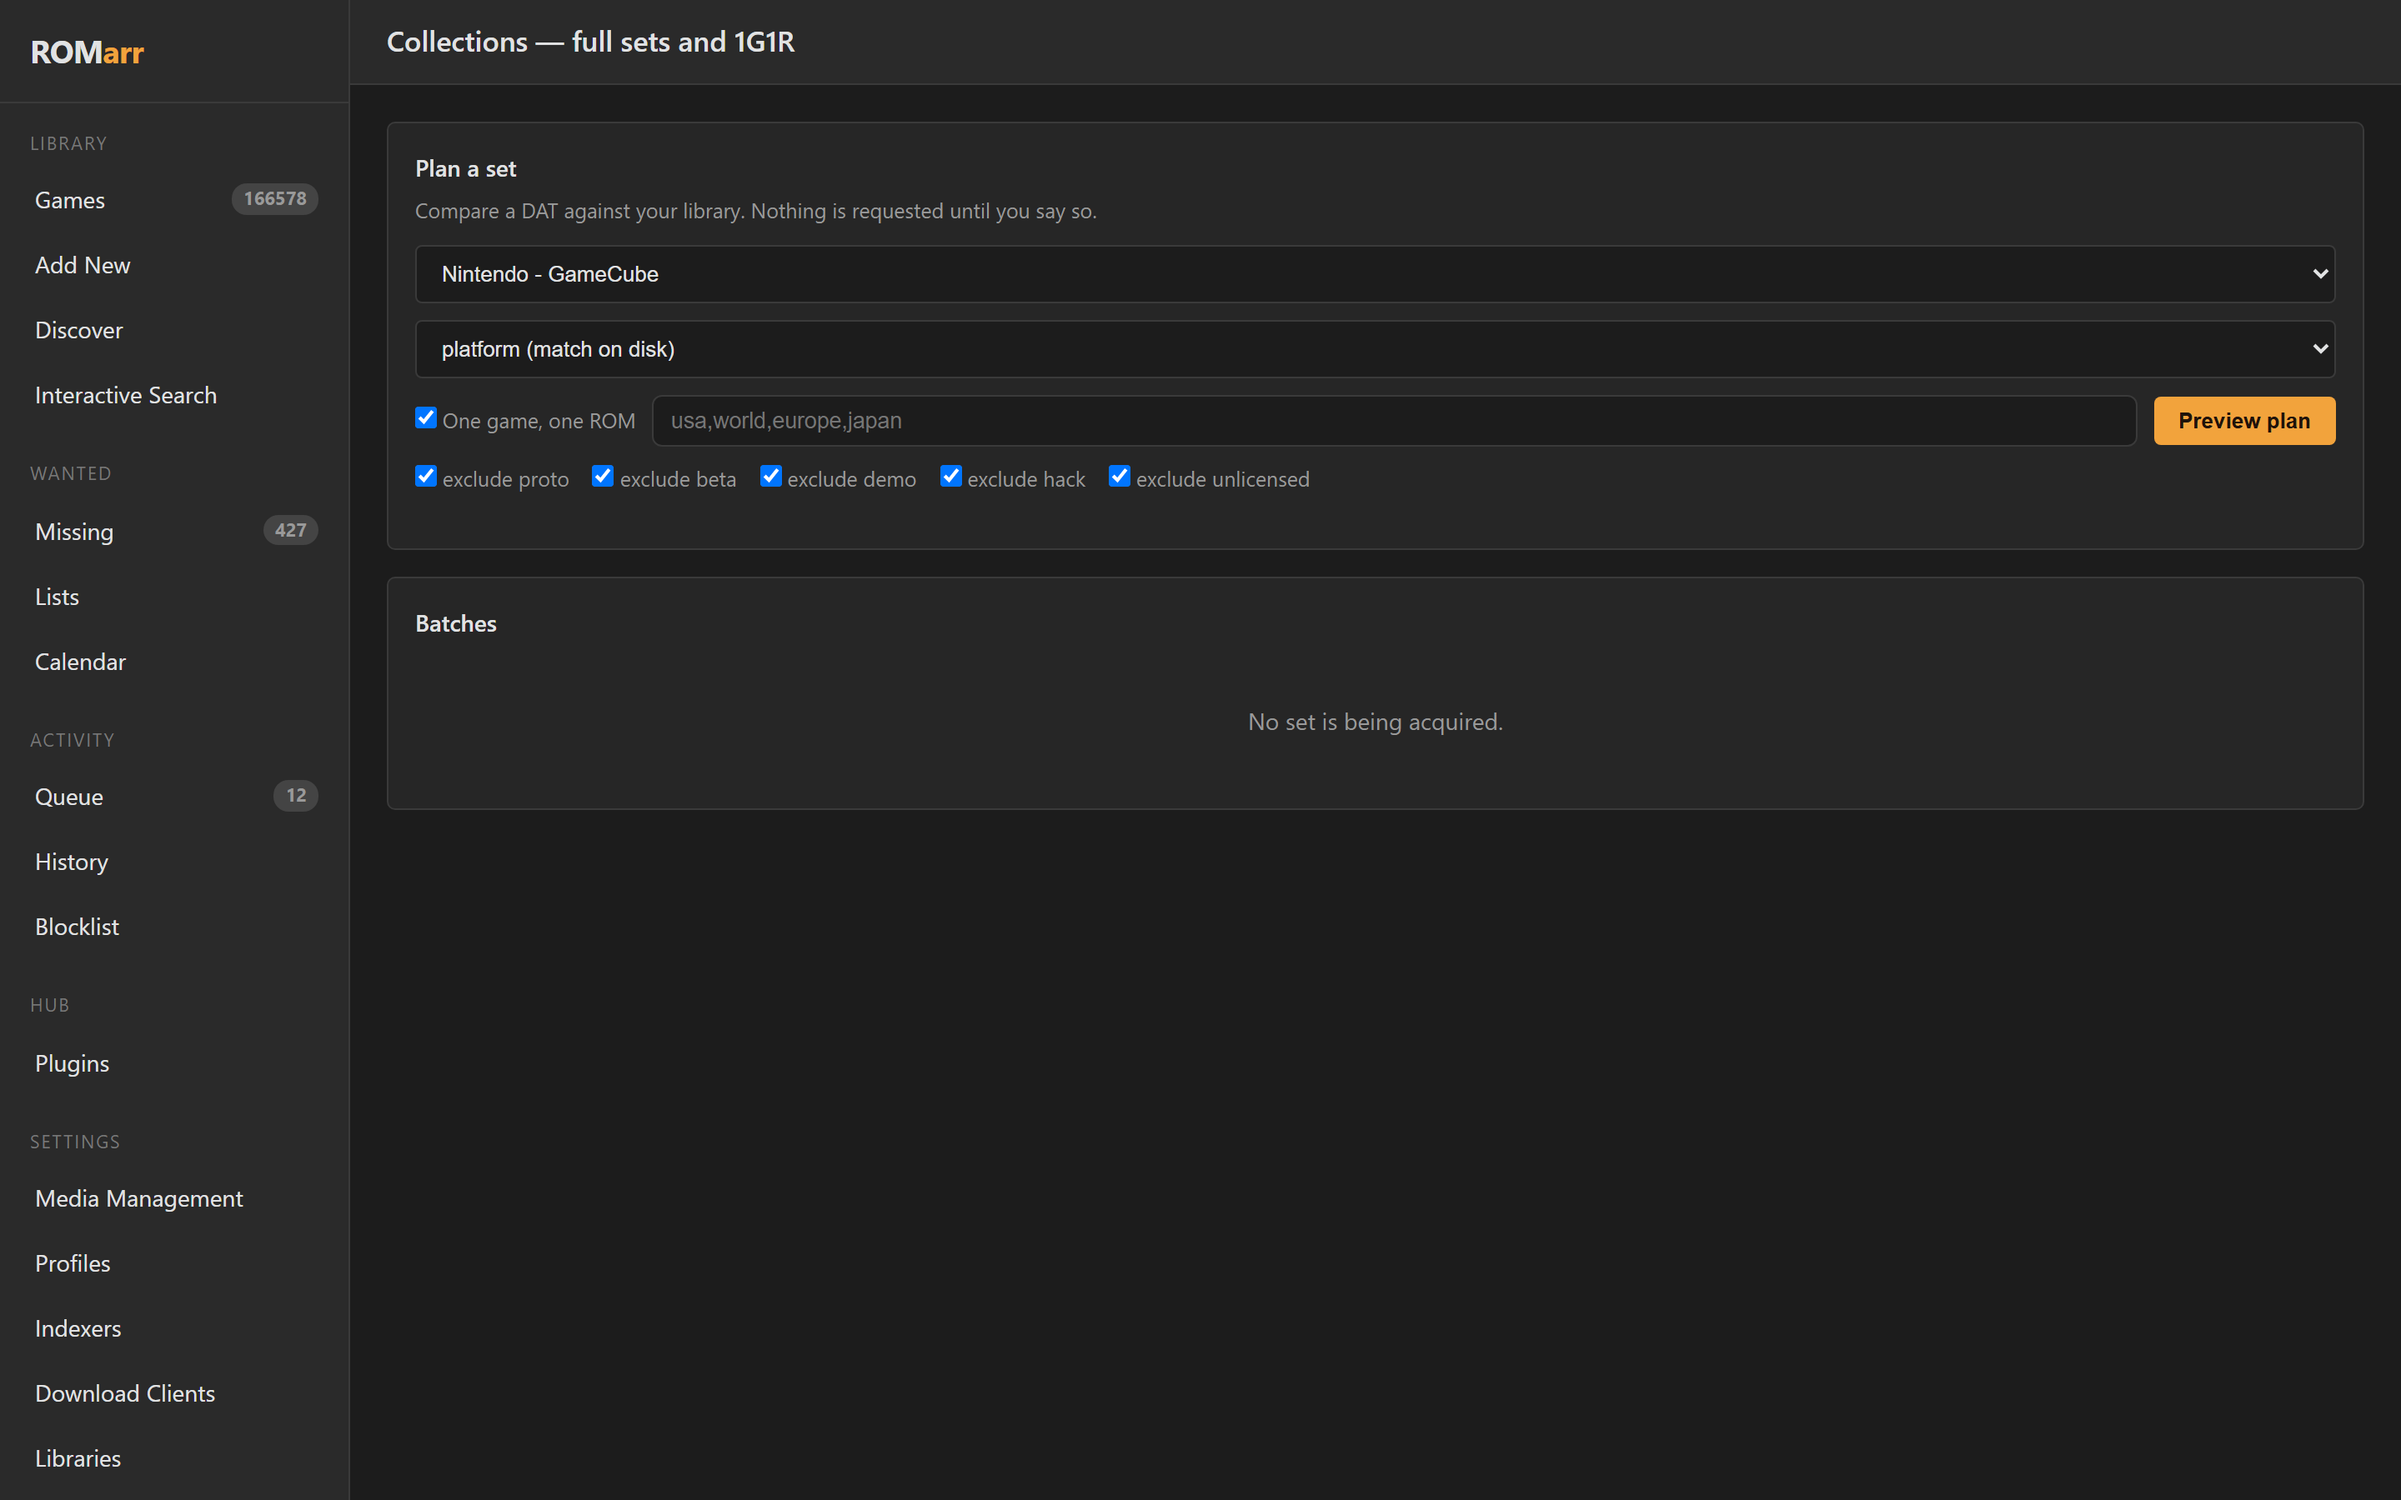
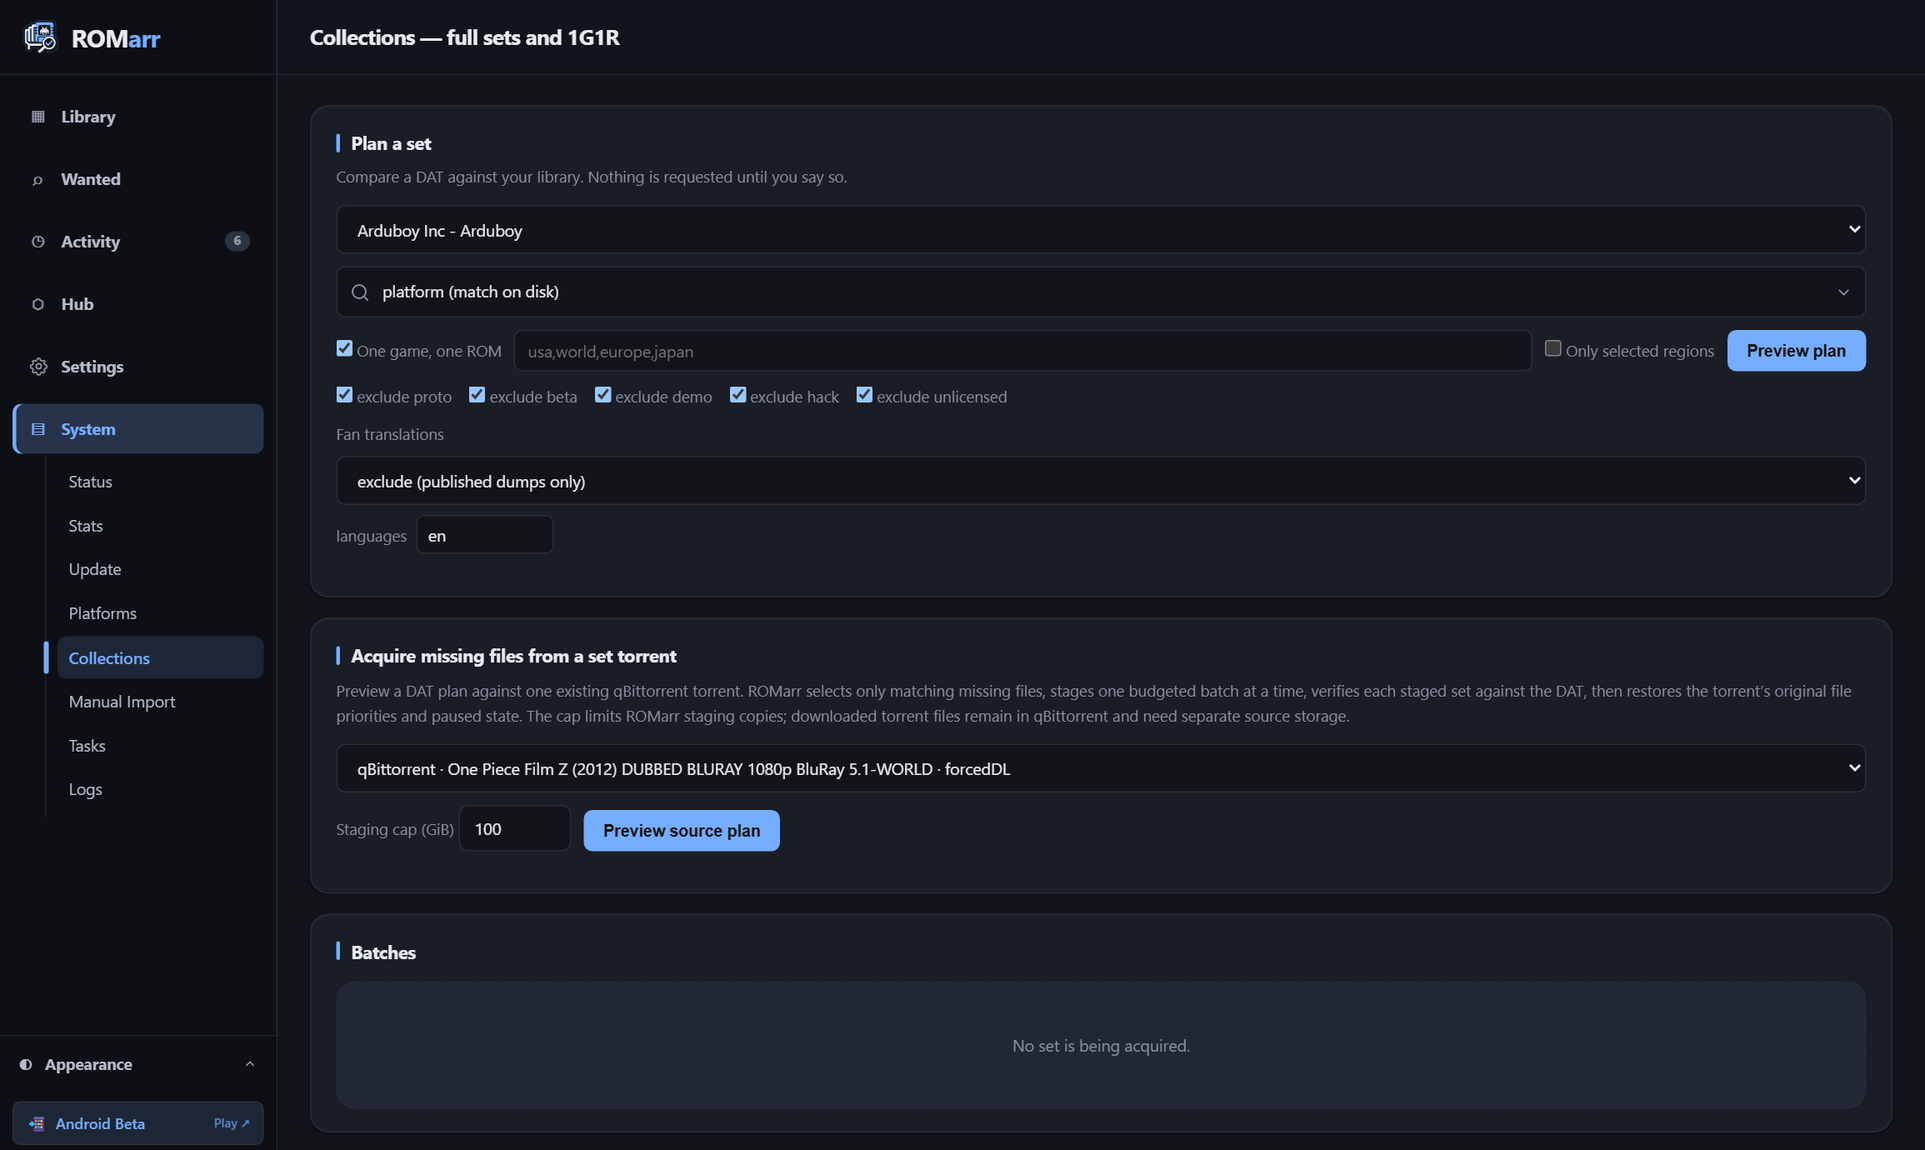
docs: refresh v1.10.0 platform screenshots and editions gallery

diff --git a/README.md b/README.md
@@ -58,6 +58,62 @@ You can use a plain **folder** as your library. RomM, Gaseous, Retrom and other 
 
 Imports can be checked against DAT checksums. The result is **verified**, **bad dump**, or **unknown**. Without a matching DAT, a file is unknown; that does not mean it is damaged. **Rename on import** can use a verified single-file ROM's DAT name while keeping its source extension; unknown filenames are retained and existing files are not overwritten. For files already in your library, use the [rename preview and rollback guide](docs/EXISTING-LIBRARY-RENAME.md). Review each proposed change; multi-file disc sets and ambiguous matches are skipped.
 
+## Editions & Screenshots
+
+ROMarr shares one unified interface across browser deployments, Windows standalone, Android phones/handhelds, and [`ROMarr.app`](https://romarr.app). All captures below are taken from a live 76,064-game library running ROMarr v1.10.0.
+
+### Platform Editions & Authentication
+
+| Edition | Highlights | Preview |
+|---|---|---|
+| **Browser Web UI** | 76,064 games cached across 73 platforms with cover art, fast filters, and status badges | ![ROMarr Browser Edition — 76,064 games across 73 platforms](docs/img/editions/romarr-browser-edition.png) |
+| **Windows Desktop App** | Portable x64 WebView2 window, tray host, Cartridge player menu, and 1,220-entry Emulator Hub | ![ROMarr Windows Desktop Edition with Cartridge menu and Emulator Hub](docs/img/editions/romarr-windows-edition.png) |
+| **Android App (Mobile & Handhelds)** | Bundled Chaquopy server plus HTTPS remote profile switching over mobile touch UI | ![ROMarr Android App connected to a remote server](docs/img/editions/romarr-android-edition.png) |
+| **Android Slide-Out Drawer** | Touch navigation drawer with expandable hub sections and integrated Color Changer | ![ROMarr Android navigation drawer and theme controls](docs/img/editions/romarr-android-drawer.png) |
+| **ROMarr.app Website** | Project landing page synced with real scored search results and live accent swatches | ![ROMarr.app landing page showcase](docs/img/editions/romarr-website-edition.png) |
+| **Sign-In & OIDC SSO** | Built-in password/API-key authentication alongside external SSO providers such as Authentik | ![ROMarr sign-in and OIDC SSO screen](docs/img/editions/romarr-signin-sso.png) |
+
+### Vector SVG Branding & Live Color Changer
+
+The separated vector icon ([`romarr-icon.svg`](docs/img/brand/romarr-icon.svg)) and stacked lockup dynamically bind to `var(--accent)` so the logo, wordmark, active navigation, and charts shift cleanly together in real time:
+
+| Steel Blue (`#75adff`) | Warm Amber (`#f2a33c`) | Emerald Green (`#3ecf6d`) | Royal Violet (`#c084fc`) |
+|---|---|---|---|
+| ![Steel Blue accent theme](docs/img/editions/theme-blue.png) | ![Warm Amber accent theme](docs/img/editions/theme-amber.png) | ![Emerald Green accent theme](docs/img/editions/theme-emerald.png) | ![Royal Violet accent theme](docs/img/editions/theme-violet.png) |
+
+### Library Discovery, Confined Plugins & Device Sync
+
+| Feature | Preview |
+|---|---|
+| **Library Overview** — 76,056 files on disk, platform pills, genre/region/decade filters, and cover grid | ![ROMarr library view across 73 platforms](docs/img/library.png) |
+| **Discover Shelf** — 42,210 metadata-matched games from your library with top-rated, hidden-gem, and franchise filters | ![ROMarr Discover shelf with 42,210 games](docs/img/discover.png) |
+| **ROM Hub Plugins** — 29 confined subprocess sources (`archive-org`, `vimm-net`, `minerva-archive`, `theromdepot`, and more) | ![ROM Hub showing 29 enabled plugins](docs/img/hub-plugins.png) |
+| **Device Fleet & 1G1R Planner** — Non-destructive Igir sync plans and frontend exports for ES-DE, RetroPie, Batocera, Steam Deck, and Argosy | ![Device Fleet non-destructive 1G1R sync planner](docs/img/device-fleet.png) |
+
+<details>
+<summary>Tour more views: MCP AI Connector, Device Cards, Emulator Hub, Collections, Friends & System Telemetry</summary>
+
+| View | Preview |
+|---|---|
+| **Device Profiles & Handheld Cards** | ![Device Fleet cards for ES-DE, RetroPie, Batocera, Steam Deck, and Android handhelds](docs/img/portal-fleet.png) |
+| **AI Agents (MCP) Connector** | ![Authenticated MCP endpoint config for Claude Code, Codex, Hermes, and Antigravity](docs/img/ai-agents-mcp.png) |
+| **Emulator Hub & Cartridge Setup** | ![Cartridge plug-and-play toolbar and 1,220-entry Emulator Hub](docs/img/emulators-cartridge.png) |
+| **Ecosystem (Igir v5.8.0 & Backends)** | ![Igir v5.8.0 runner and RomM/Gaseous/Retrom/Gameyfin integrations](docs/img/ecosystem.png) |
+| **Collections & Set Torrents** | ![1G1R DAT comparison and budgeted qBittorrent set acquisition](docs/img/collections.png) |
+| **Statistics & Indexer Telemetry** | ![Library totals, platform imports, and grabs by indexer](docs/img/stats.png) |
+| **Friends & Federation** | ![Confirmed peer invitations and 198,106-hash netplay verification](docs/img/friends.png) |
+| **Browse Shared Friend Shelf** | ![Browsing a peer server library and adding titles to Wanted](docs/img/friend-library.png) |
+| **Import Lists & Storefront Connectors** | ![One-click Steam, GOG, Epic, Battle.net, PlayStation, Xbox, and itch.io lists](docs/img/lists.png) |
+| **Storefront Session Token Modal** | ![PlayStation session paste modal in dark Steel Blue UI](docs/img/connect-modal.png) |
+| **Activity History** | ![Grabbed, ignored, and failed event trail with indexer sources](docs/img/activity-history.png) |
+| **Notification Providers** | ![Discord, Slack, Webhook, ntfy.sh, Gotify, Telegram, Pushover, and Apprise](docs/img/connect.png) |
+| **Library Backends** | ![Configured library destinations and status checks](docs/img/libraries.png) |
+| **System Health & GG Requestz** | ![Service health checks and GG Requestz webhook configuration](docs/img/status.png) |
+| **Scheduled Tasks** | ![Automated import, missing search, RSS, list sync, and hash indexing tasks](docs/img/tasks.png) |
+| **Live Process Logs** | ![Streaming service logs inside the web interface](docs/img/logs.png) |
+
+</details>
+
 ## Install
 
 ### Choose a method

diff --git a/docs/FEATURES.md b/docs/FEATURES.md
@@ -20,6 +20,8 @@ DAT checksums distinguish **verified**, **bad dump** and **unknown**. Every memb
 
 ## Collections and existing set torrents
 
+![Collections 1G1R comparison and set torrent planner](img/collections.png)
+
 **Collections** compares a loaded DAT with the selected library/platform. You can review missing entries and apply the available region/1G1R policy. A DAT describes a set; it does not supply downloads.
 
 For an existing qBittorrent set torrent, selective acquisition first previews matched files and sidecars. ROMarr changes file priorities for a batch within your staging budget, verifies downloaded data before importing, and saves progress. Completion or cancellation restores the original torrent priorities. The workflow does not delete the source torrent or its original downloaded data. Account for those source files separately from the staging budget.
@@ -84,6 +86,8 @@ CAPTCHAs, access challenges and blocked downloads can stop a fetch. The client r
 `GET /api/v1/downloadclient/browser` reports availability and why the client cannot run when a requirement is missing.
 
 ## Notifications
+
+![Notification providers in Settings -> Connections](img/connect.png)
 
 **Settings → Connections** configures notifications such as Discord and generic webhooks. Use **Test** before saving. A failed test reports the endpoint's HTTP status and available response detail. A 403 can be an upstream permission, webhook or access-policy problem; copying ROMarr settings cannot grant access the endpoint refuses.
 

diff --git a/docs/INSTALL.md b/docs/INSTALL.md
@@ -324,6 +324,8 @@ ZIP handling is built in. Install `bsdtar` for supported `.7z` and `.rar` archiv
 
 ## Windows app
 
+![ROMarr Windows Desktop App showing Cartridge menu and Emulator Hub](img/editions/romarr-windows-edition.png)
+
 Download the portable **Windows 10/11 x64** app. The package contains the native Windows window, embedded WebView2 interface, Python backend, ROM Hub and Git. No Python, PowerShell, Docker, .NET or separate browser installation is required to use it.
 
 1. Open [ROMarr releases](https://github.com/BlizzHacker/romarr/releases/latest) and download **`ROMarr-1.8.0-win-x64.zip`** (choose the matching version on later releases).
@@ -380,6 +382,10 @@ ROMarr connects directly to dedicated living room cabinets, Raspberry Pi micro-c
 | **Cross-Platform Handhelds** | Cloud / WebDAV | RetroArch WebDAV cloud saves & states |
 
 In ROMarr, navigate to **Library Shell & Device Fleet** -> **Device Fleet** to audit existing scraped images, run Igir 1G1R deduplication against verified No-Intro/Redump DATs, and push updated `gamelist.xml` files.
+
+| Device Fleet Sync Planner | Handheld & Console Profiles |
+|---|---|
+| ![Device Fleet non-destructive 1G1R sync planner](img/device-fleet.png) | ![Device Fleet cards for ES-DE, RetroPie, Batocera, Steam Deck, and Android handhelds](img/portal-fleet.png) |
 
 ---
 

diff --git a/docs/ANDROID.md b/docs/ANDROID.md
@@ -61,6 +61,10 @@ Files in your library can be launched directly into installed emulators via Andr
 
 ## Use
 
+| Android Home & Top Toolbar | Slide-Out Drawer & Appearance |
+|---|---|
+| ![ROMarr Android App with native toolbar and ROM Hub](img/editions/romarr-android-edition.png) | ![ROMarr Android slide-out navigation drawer and theme picker](img/editions/romarr-android-drawer.png) |
+
 The dark native toolbar keeps the active device or server visible above the app.
 Open **ROMarr menu** (⋮) for **This device**, **Servers**, **Import ROM or DAT**,
 **Play a local file**, and **Connection details**. Long server names shorten on

diff --git a/docs/PLUGINS.md b/docs/PLUGINS.md
@@ -1,5 +1,7 @@
 # ROM Hub plugins
 
+![ROM Hub showing 29 enabled confined plugins](img/hub-plugins.png)
+
 **ROM Hub** is the plugin host. A **plugin** adds a source or capability: for example, searching a homebrew catalogue or looking up metadata. Installing ROMarr and installing a plugin are separate steps.
 
 ## Is ROM Hub already installed?

diff --git a/docs/MCP.md b/docs/MCP.md
@@ -1,5 +1,7 @@
 # Connect an AI agent to your ROMarr
 
+![AI Agents MCP Connector view in ROMarr](img/ai-agents-mcp.png)
+
 ROMarr provides a real authenticated MCP endpoint at:
 
 ```text
